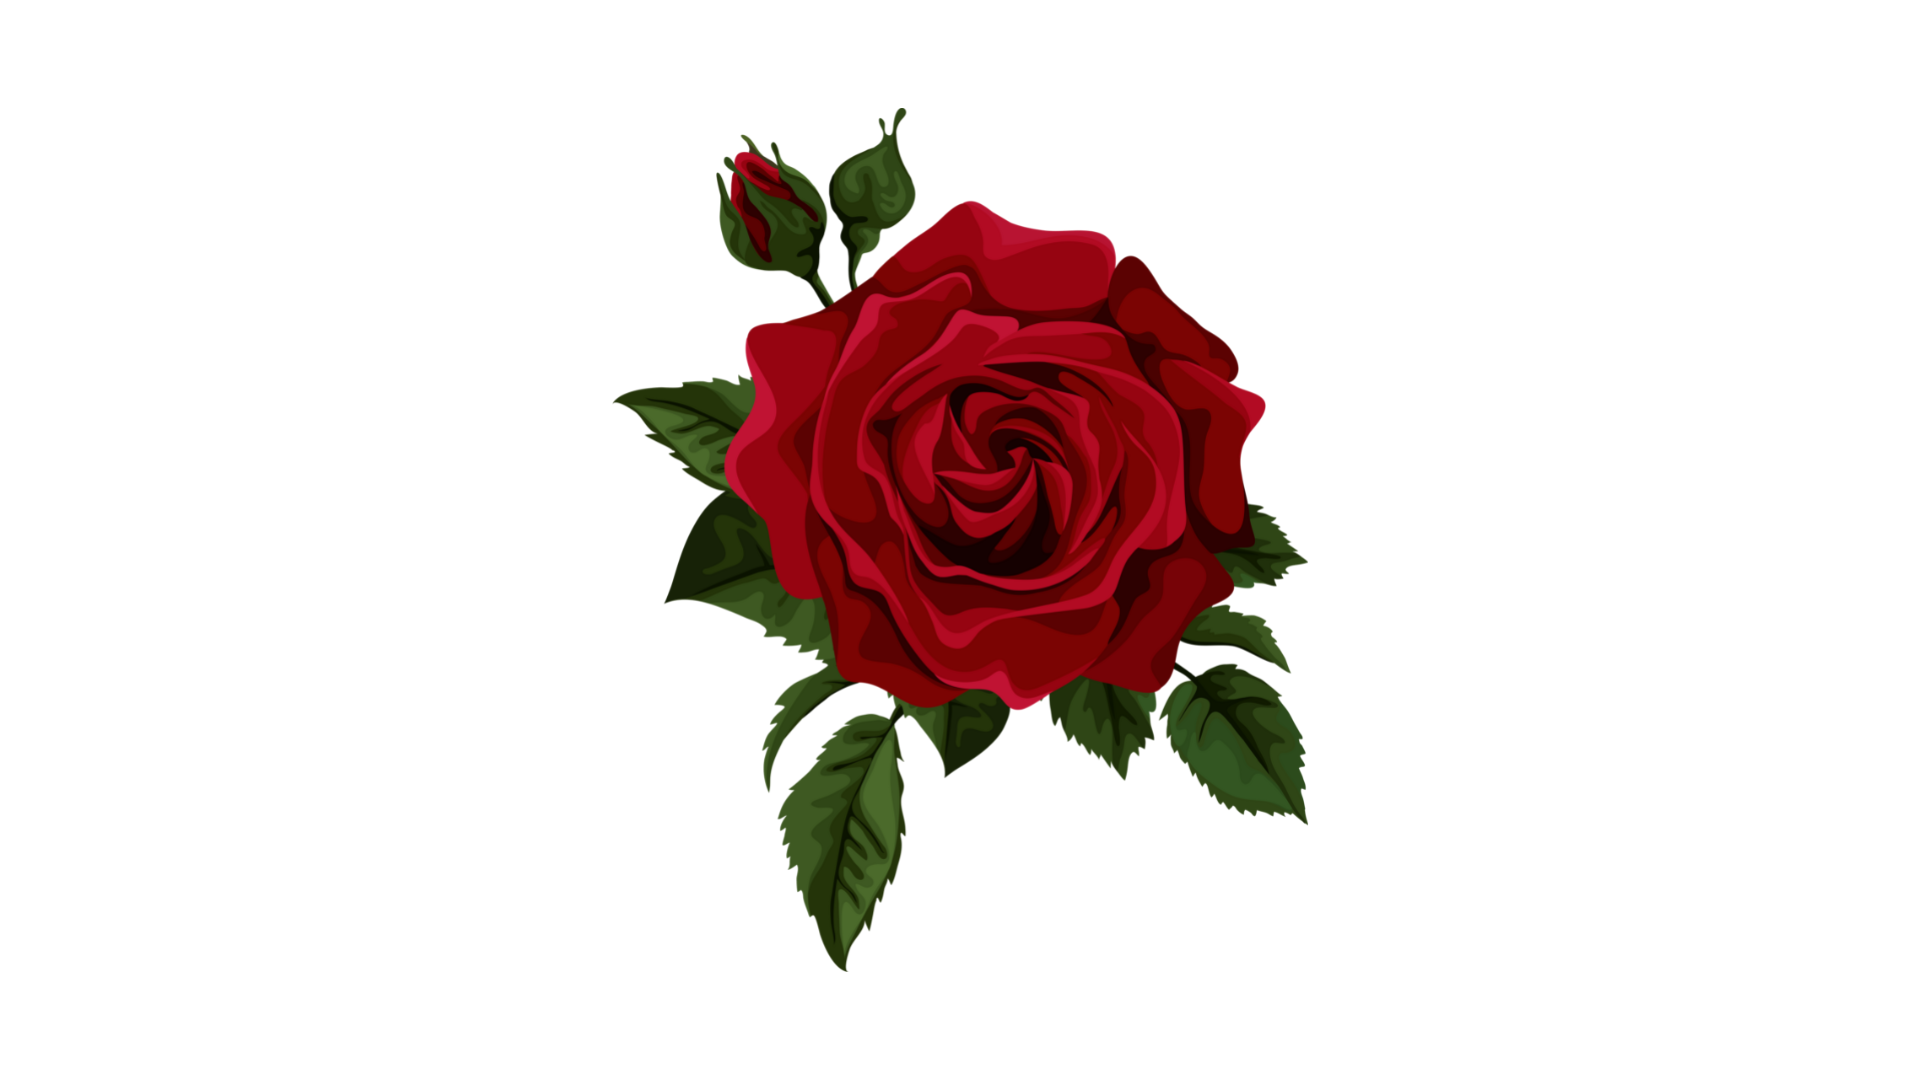
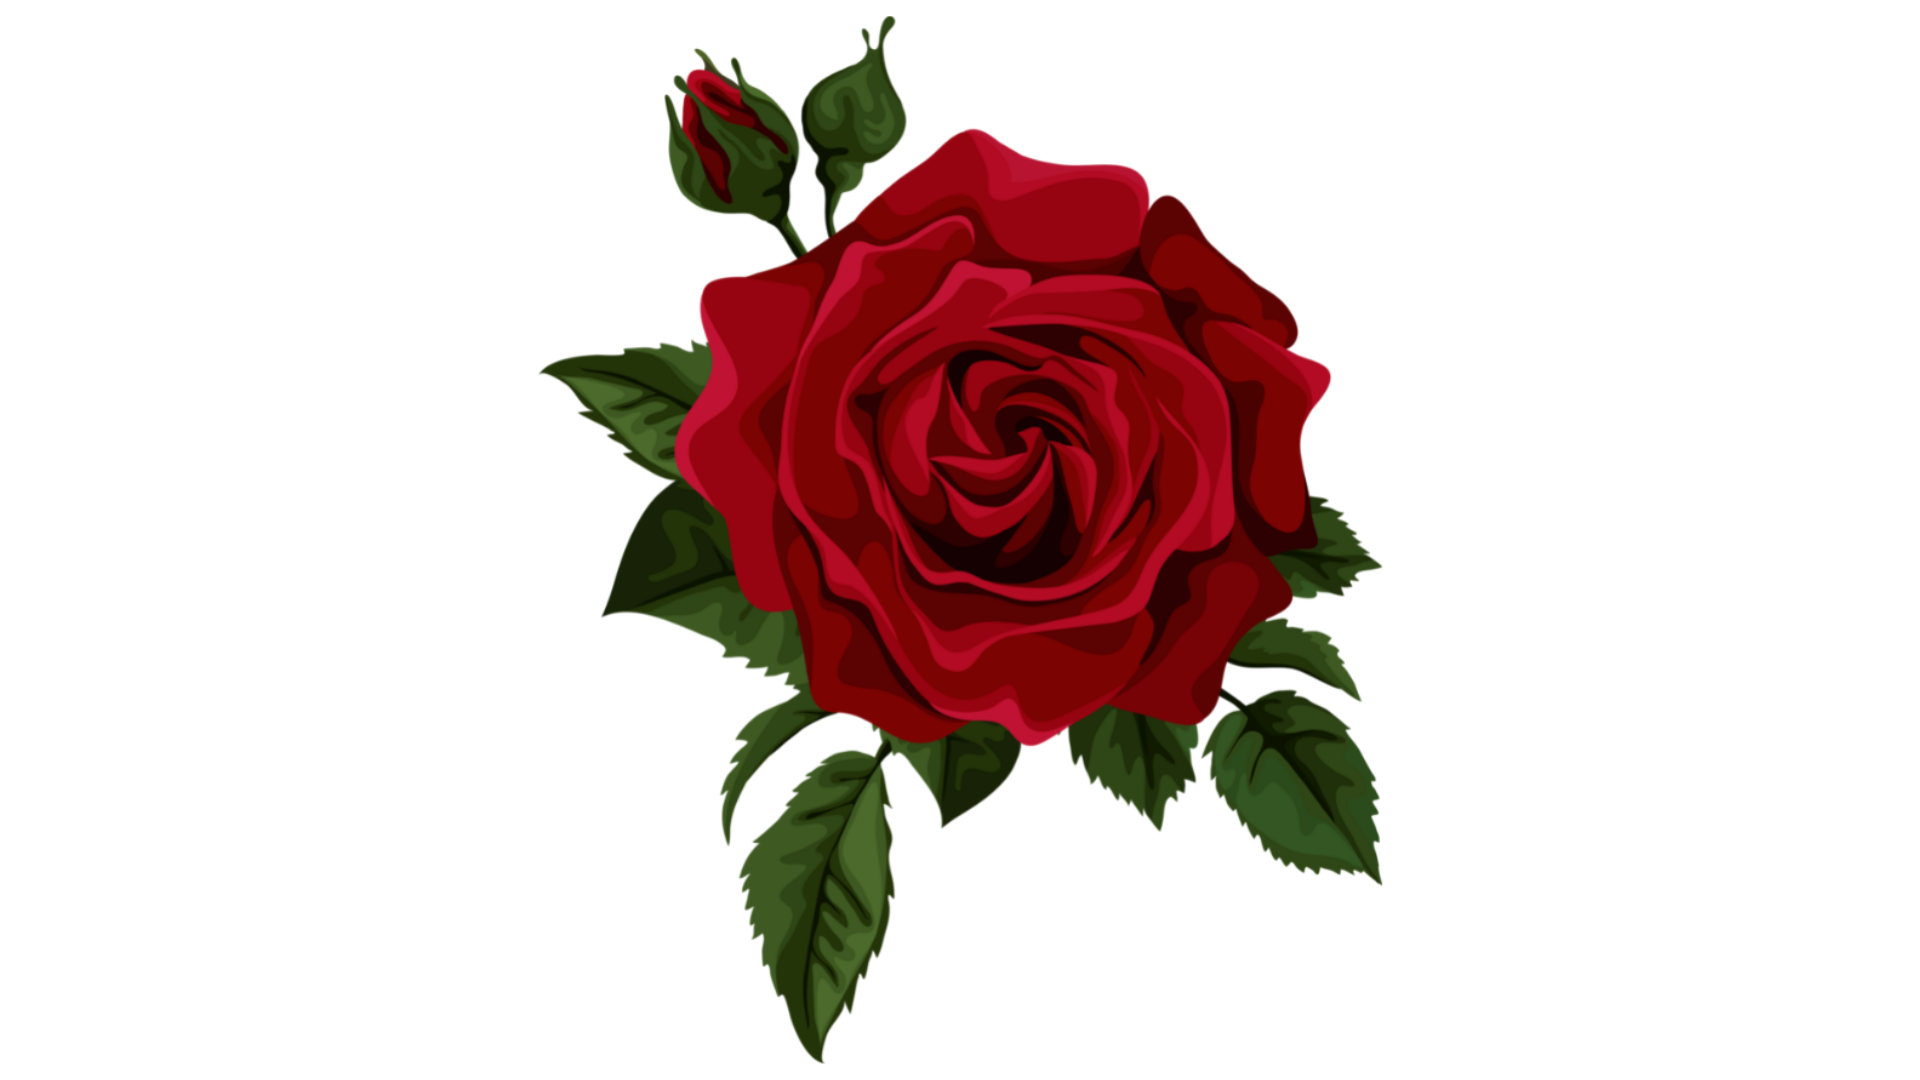
edit details

Changed region(s): [[0.2812, 0.0, 0.7188, 0.9778]]

diff --git a/index.html b/index.html
@@ -4,6 +4,7 @@
     <meta charset="UTF-8">
     <meta name="viewport" content="width=device-width, initial-scale=0.5, maximum-scale=5.0, minimum-scale=0.5">
     <title>My Letter For You</title>
+    <link rel="stylesheet" href="style.css">
 <style>
     @import url('https://cdnjs.cloudflare.com/ajax/libs/font-awesome/6.3.0/css/fontawesome.min.css');
 
@@ -16,9 +17,9 @@ body{
 }
 .box{
     background: #e91e63;
-    padding: 60px 60px;
+    padding: 80px 80px;
     color: #fff;
-    width: 50%;
+    width: 80%;
     text-align: center;
     margin: 25vh auto;
     position: relative;
@@ -32,8 +33,8 @@ body{
 }
 .top-border:before{
     content: '';
-    width: 71px;
-    height: 71px;
+    width: 200px;
+    height: 200px;
     position: absolute;
     background: url("img/border.png");
     background-size: cover;
@@ -42,8 +43,8 @@ body{
 }
 .top-border::after{
     content: '';
-    width: 71px;
-    height: 71px;
+    width: 200px;
+    height: 200px;
     position: absolute;
     background: url("img/border.png");
     background-size: cover;
@@ -53,8 +54,8 @@ body{
 }
 .bottom-border:before{
     content: '';
-    width: 71px;
-    height: 71px;
+    width: 200px;
+    height: 200px;
     position: absolute;
     background: url("img/border.png");
     background-size: cover;
@@ -64,8 +65,8 @@ body{
 }
 .bottom-border::after{
     content: '';
-    width: 71px;
-    height: 71px;
+    width: 200px;
+    height: 200px;
     position: absolute;
     background: url("img/border.png");
     background-size: cover;
@@ -74,7 +75,7 @@ body{
     transform: rotate(180deg);
 }
 .box img{
-    width: 100px;
+    width: 300px;
 }
 .love{
     animation: pulse 1s ease infinite;
@@ -91,7 +92,7 @@ body{
     <div class="main">
     <div class="box">
         <div class="top-border"></div>            
-        <img src="" class="ring">
+        <img src="img/rose.png" class="ring">
         <h3>Strawberry <span class="love">💓</span> Reyes</h3>
         <p>On this special day, I want to express my love and admiration for you. You are the sunshine that brightens my day, the reason I wake up each morning with a smile on my face, and the one who fills my life with happiness.
             From the moment I met you, I knew that there was something special about you. Your smile, your laughter, and your kindness all captured my heart. As I got to know you better, I fell more deeply in love with you, and my feelings for you have only grown stronger with time.
@@ -110,6 +111,9 @@ body{
         </h4>
         <div class="bottom-border"></div>
     </div>
+    </div>
+    <div class="container">
+        <div class="bubbles"></div>
     </div>
 </body>
 </html>

diff --git a/style.css b/style.css
@@ -3,82 +3,7 @@
     padding: 0;
     box-sizing: border-box;
 }
-@import url('https://cdnjs.cloudflare.com/ajax/libs/font-awesome/6.3.0/css/fontawesome.min.css');
-
-body{
-    font-family: 'Lora';
-    font-size: 17px;
-    line-height: 1.5;
-    background: linear-gradient(#cd88f4, #ba04c5, #42d7e0);
-    background-attachment: scroll;
-}
-.box{
-    background: #e91e63;
-    padding: 60px 60px;
-    color: #fff;
-    width: 50%;
-    text-align: center;
-    margin: 25vh auto;
+.container{
     position: relative;
-    box-shadow: 0px 5px 10px rgba(0, 0, 0, 0.5);
-}
-.box h3{
-    font-size: 30px;
-    font-weight: 400;
-    text-transform: uppercase;
-     margin: 5px;
-}
-.top-border:before{
-    content: '';
-    width: 71px;
-    height: 71px;
-    position: absolute;
-    background: url(about-pattern-left-top.png);
-    background-size: cover;
-    top: 20px;
-    left: 20px;
-}
-.top-border::after{
-    content: '';
-    width: 71px;
-    height: 71px;
-    position: absolute;
-    background: url(about-pattern-left-top.png);
-    background-size: cover;
-    top: 20px;
-    right: 20px;
-    transform: rotate(90deg);
-}
-.bottom-border:before{
-    content: '';
-    width: 71px;
-    height: 71px;
-    position: absolute;
-    background: url(about-pattern-left-top.png);
-    background-size: cover;
-    bottom: 20px;
-    left: 20px;
-    transform: rotate(270deg);
-}
-.bottom-border::after{
-    content: '';
-    width: 71px;
-    height: 71px;
-    position: absolute;
-    background: url(about-pattern-left-top.png);
-    bottom: 20px;
-    right: 20px;
-    transform: rotate(180deg);
-}
-.box img{
-
-}
-.love{
-    animation: pulse 1s ease infinite;
-    display: inline-block;
-}
-@keyframes pulse{
-    0%{transform: scale(1);}
-    50%{transform: scale(1.3);}
-    100%{transform: scale(1);}
+    overflow: hidden;
 }
